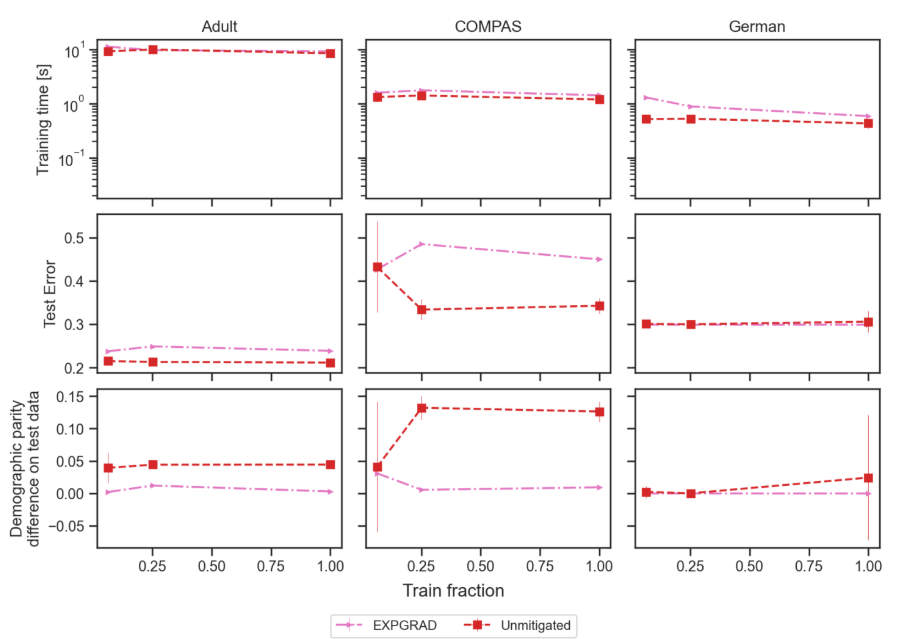
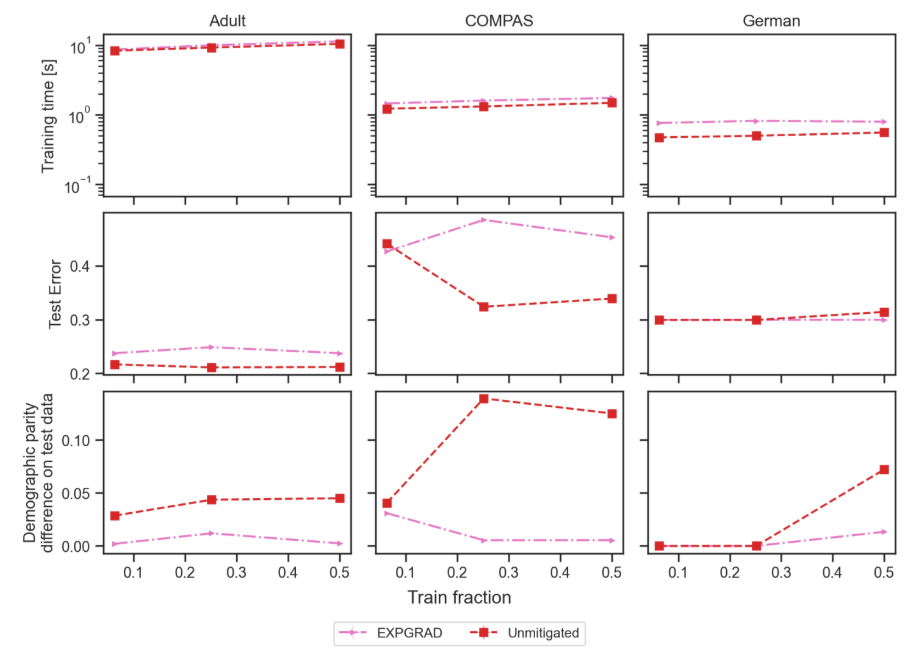
add: synthetic dataset input check; simplified field to specify group values of synthetic ds gen stremlit page; extended demo example descriptions; minor bugs.

diff --git a/streamlit/page_exp_def_and_exec.py b/streamlit/page_exp_def_and_exec.py
@@ -83,13 +83,14 @@ def stpage01_exp_definition_and_execution():
 
     # split_strategy
     available_split_strategies = utils_prepare_data.split_strategy_map.keys()
-    split_strategy = st.selectbox('Split strategy', available_split_strategies, index=1,
+    split_strategy = st.selectbox('Split strategy (default: StratifiedKFold with 3 folds.)', available_split_strategies, index=1,
                                   help='Choose the split strategy. Default is StratifiedKFold with 3 folds. ')
 
     # train_test_fold
-    train_test_fold = st.text_input('Train test fold: enter a value or a list of values (e.g. [0,1,2]) (default: [0, 1, 2])',
-                                    '[0, 1, 2]', help='Choose the train test fold. To run a single fold, enter a single value.'
-                                                      'eg.: 0')
+    if split_strategy == 'StratifiedKFold':
+        train_test_fold = st.text_input('Train test fold (for StratifiedKFold, K=3): enter a value or a list of values (e.g. [0,1])',
+                                        '[0, 1, 2]', help='Choose the train test fold. To run a single fold, enter a single value.'
+                                                          'eg.: [0]')
 
     # Experiment ID
     experimentID = st.text_input('Experiment ID: enter the name of the experiment (Required)', f'demo.{i:02d}')
@@ -118,9 +119,7 @@ def stpage01_exp_definition_and_execution():
                     'train_test_fold': eval_none(train_test_fold),
                     'params': ['--debug']  # Placeholder for other parameters
                 }
-
-                experiment_conf = {k: v for k, v in experiment_conf.items() if v}
-
+                experiment_conf = {k: v for k, v in experiment_conf.items() if v is not None}
                 try:
                     # Execute the experiment
                     launch_experiment_by_config(experiment_conf)

diff --git a/streamlit/stpage_synthetic_datasets.py b/streamlit/stpage_synthetic_datasets.py
@@ -73,8 +73,10 @@ def stpage05_synthetic_generator():
     #                                               with the remaining probability.''')
     # eps = list(map(float, eps.split()))
 
-    group_values = st.text_input('Sensitive attribute values (space-separated):', '0 1', )
-    group_values = list(map(int, group_values.split()))
+    # group_values = st.text_input('Sensitive attribute values (space-separated: int):', '0 1', )
+    # group_values = list(map(int, group_values.split()))
+    n_group_values = st.number_input('Number of sensitive attribute values:', min_value=2, value=2)
+    group_values = range(n_group_values)
 
     # group_probabilities = st.text_input('Probabilities of each sensitive attribute value (space-separated):',
     #                                     '0.55 0.45')
@@ -108,8 +110,8 @@ def stpage05_synthetic_generator():
             for i in range(num_groups):
                 if f'prob_{i}' not in st.session_state:
                     st.session_state[f'prob_{i}'] = (1 / num_groups)
-                prob = st.slider(f'{group_values[i]}', 0.0, 1.0,
-                                 key=f'prob_{i}', on_change=create_callback(f'prob_{i}'))  # Individual sliders
+                prob = st.slider(f'{group_values[i]}', 0.0, 1.0, value=1 / num_groups,
+                                 key=f'prob_{i}', on_change= create_callback(f'prob_{i}'))  # Individual sliders
                 group_probabilities.append(prob)
         with cols[1]:
             group_target_probabilities = []

diff --git a/src/fairnesseval/synthetyc_dataset_generator.py b/src/fairnesseval/synthetyc_dataset_generator.py
@@ -18,6 +18,9 @@ class DatasetGenerator:
     def generate_dataset(self):
         rnd = np.random.RandomState(self.args.random_seed)
         # Generate an array of sensitive attribute values
+        if sum(self.args.group_probabilities) != 1:
+            raise ValueError('Sum of group_probabilities should be equal to 1')
+
         sensitive_attributes = rnd.choice(self.args.group_values, size=self.args.n_samples,
                                           p=self.args.group_probabilities)
         # Generate outcomes based on sensitive attribute values

diff --git a/streamlit/stpage_eda.py b/streamlit/stpage_eda.py
@@ -34,7 +34,7 @@ def stpage_eda():
                 # Load the dataset
                 _ = utils_prepare_data.get_dataset(dataset_name)
             except Exception as e:
-                st.error(f"Error during dataset generation: {str(e)}")
+                st.error(f"Error during dataset loading: {str(e)}")
             st.success("Dataset loaded successfully!")
 
         log_area.empty()

diff --git a/streamlit/README.md b/streamlit/README.md
@@ -13,43 +13,48 @@ streamlit run Fairnesseval.py
 
 Here I will show you how to use the demo by providing input examples for the different models and datasets.
 
-### Example 1: Exponentiated Gradient with Logistic Regression on Adult dataset
 
-- Dataset: 'adult', 'compas', 'german',
+### Example 1: N models on 1 datasets
+If models have similar parameters, you can use the same parameters for all models. 
+Not specified exclusive parameters of each model will be set at their default value.
+
+- Dataset: german
+- Model: Calmon, Feld, ThresholdOptimizer, ZafarDI
+- Model parameters:
+
+```python
+{'base_model_code': 'lr', 'base_model_grid_params': {'C': [0.1]}}
+```
+- Train Fractions: `[0.25]`
+- [optional] Experiment ID: `eg1` (reference for demo Plot examples)
+- Default values for others.
+
+`This experiment took about 15s on a common laptop.`
+
+### Example 2: Exponentiated Gradient with Logistic Regression on M dataset
+
+- Dataset: 'adult', 'compas', 'german'
 - Model: `expgrad`
 - Model parameters:
 
-```
+```python
 {'eps': 0.005,
  'base_model_code': ['lr'],
  'constraint_code': 'dp',
  'base_model_grid_params': {'C': [0.1]}}
 ```
-- Train Fractions: `[0.063, 0.251, 1]`
+
+- Train Fractions: `[0.063, 0.251, 0.5]`
 - Train Test fold: `[0]`
-
-
-
-### Example 2: N models on M datasets
-If models have similar parameters, you can use the same parameters for all models. 
-Not specified exclusive parameters of each model will be set at their default value.
-
-
-- Dataset: adult, compas, german
-- Model: Calmon, Feld, ThresholdOptimizer, ZafarDI, ZafarEO
-- Model parameters:
-
-```
-{'base_model_code': 'lr', 'base_model_grid_params': {'C': [0.1]}}
-- ```
-
-- Train Fractions: `[0.25]`
-- Train Test fold: `[0, 1]`
+- [optional] Experiment ID: `eg2` (for demo Plot examples)
 - Default values for others.
+
+
+`This experiment took about 45s on a common laptop.`
 
 ### Example 3:
 
-- Dataset: 'adult', 'compas', 'german',
+- Dataset: 'adult', 'compas', 'german'
 - Model: `unmitigated`
 - Model parameters:
 
@@ -57,17 +62,49 @@ Not specified exclusive parameters of each model will be set at their default va
 { 'base_model_code': ['lr'],
  'base_model_grid_params': {'C': [0.1]}}
 ```
-- Train Fractions: `[0.063, 0.251, 1]`
+- Train Fractions: `[0.063, 0.251, 0.5]`
+- Train Test fold: `[0]`
+- [optional] Experiment ID: `eg3` (for demo Plot examples)
+- Default values for others.
+
+
+`This experiment took about 40s on a common laptop.`
+
+### Example 4: N models on M datasets
+
+- Dataset: adult, compas, german
+- Model: Calmon, Feld, ThresholdOptimizer, ZafarDI, ZafarEO
+- Model parameters:
+
+```python
+{'base_model_code': 'lr', 'base_model_grid_params': {'C': [0.1]}}
+```
+
+- Train Fractions: `[0.25]`
 - Train Test fold: `[0, 1]`
+- Default values for others.
+
 
 ## Plot examples
-Examples using 'Presentation single dataset':
-> Select the experiment id of the Example 2.
+#### Examples using 'Presentation single dataset':
+> Select the experiment id of the Example 1. (eg1)
 
+- Experiment ID: `eg1` (or as defined in the input example 1)
+- X-Attributes: train_DemographicParity | test_DemographicParity 
+- Y-Attributes: train_error | test_error | time
+- Others: default
+
+ 
+The following image contains 3 examples of this utility.
 ![eg1.png](eg1.png)
 
-Example using 'Presentation multiple datasets':
->Select the experiment id of the Example 1 and 3.
+#### Example using 'Presentation multiple datasets':
+>Select the experiment id of the Example 2 and 3. (eg2, eg3)
+
+- Experiment ID: `eg2, eg3` (or as defined in the input example 2, 3)
+- X-Attributes: `train_fraction`
+- Y-Attributes: `time, test_error, test_DemographicParity`
+- Others: default
 
 ![eg2.png](eg2.png)
 
